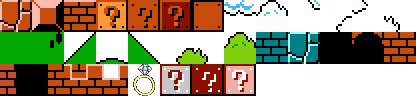
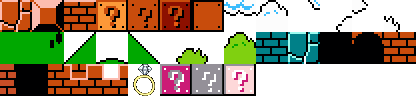
seperate ring and mushroom logics; change the pic of ring;

Changed region(s): [[0.375, 0.6562, 0.625, 1.0]]

diff --git a/next/worlds/1-1/tiles.tsx b/next/worlds/1-1/tiles.tsx
@@ -1,7 +1,7 @@
 <?xml version="1.0" encoding="UTF-8"?>
 <tileset version="1.10" tiledversion="1.10.1" name="tiles" tilewidth="32" tileheight="32" tilecount="39" columns="13">
  <image source="tiles.png" width="416" height="96"/>
- <tile id="3" type="q_0">
+ <tile id="3">
   <animation>
    <frame tileid="3" duration="500"/>
    <frame tileid="5" duration="100"/>
@@ -9,17 +9,12 @@
    <frame tileid="5" duration="100"/>
   </animation>
  </tile>
- <tile id="4" type="q_1"/>
- <tile id="5" type="q_3"/>
- <tile id="6" type="q_activated"/>
- <tile id="31" type="r_0">
+ <tile id="31">
   <animation>
-   <frame tileid="31" duration="500"/>
+   <frame tileid="31" duration="300"/>
    <frame tileid="33" duration="100"/>
    <frame tileid="32" duration="100"/>
    <frame tileid="33" duration="100"/>
   </animation>
  </tile>
- <tile id="32" type="r_1"/>
- <tile id="33" type="r_2"/>
 </tileset>

diff --git a/next/Platform.py b/next/Platform.py
@@ -76,16 +76,20 @@ class Platform(object):
 
         if self.bonus == 'mushroom':
             core.get_sound().play('mushroom_appear', 0, 0.5)
-            if core.get_map().get_player().powerLVL == 0:
-                core.get_map().spawn_mushroom(self.rect.x, self.rect.y)
-            else:
-                core.get_map().spawn_flower(self.rect.x, self.rect.y)
+            # if core.get_map().get_player().powerLVL == 0:
+            core.get_map().spawn_mushroom(self.rect.x, self.rect.y)
+            # else:
+            #     core.get_map().spawn_flower(self.rect.x, self.rect.y)
 
         elif self.bonus == 'coin':
             core.get_sound().play('coin', 0, 0.5)
             core.get_map().spawn_debris(self.rect.x + 8, self.rect.y - 32, 1)
             core.get_map().get_player().add_coins(1)
             core.get_map().get_player().add_score(200)
+
+        elif self.bonus == 'ring':
+            core.get_sound().play('mushroom_appear', 0, 0.5)
+            core.get_map().spawn_flower(self.rect.x, self.rect.y)
 
     def destroy(self, core):
         core.get_map().spawn_debris(self.rect.x, self.rect.y, 0)

diff --git a/next/Map.py b/next/Map.py
@@ -137,9 +137,14 @@ class Map(object):
 
 
         self.map[21][8].bonus = 'mushroom'
-        self.map[23][8].bonus = 'mushroom'
-        self.map[169][8].bonus = 'mushroom'
-        self.map[170][8].bonus = 'mushroom'
+        self.map[78][8].bonus = 'mushroom'
+        
+
+        self.map[129][8].bonus = 'ring'
+        self.map[152][4].bonus = 'ring'
+        self.map[168][8].bonus = 'ring'
+        self.map[170][8].bonus = 'ring'
+
 
         self.flag = Flag(6336, 48)
 

diff --git a/next/Flower.py b/next/Flower.py
@@ -17,7 +17,7 @@ class Flower(Entity):
 
         self.spawned = False
         self.spawn_y_offset = 0
-        self.image = pg.image.load('images/mushroom_ring.png').convert_alpha()
+        self.image = pg.image.load('images/ring_remake.png').convert_alpha()
 
     def check_collision_with_player(self, core):
         if self.rect.colliderect(core.get_map().get_player().rect):
